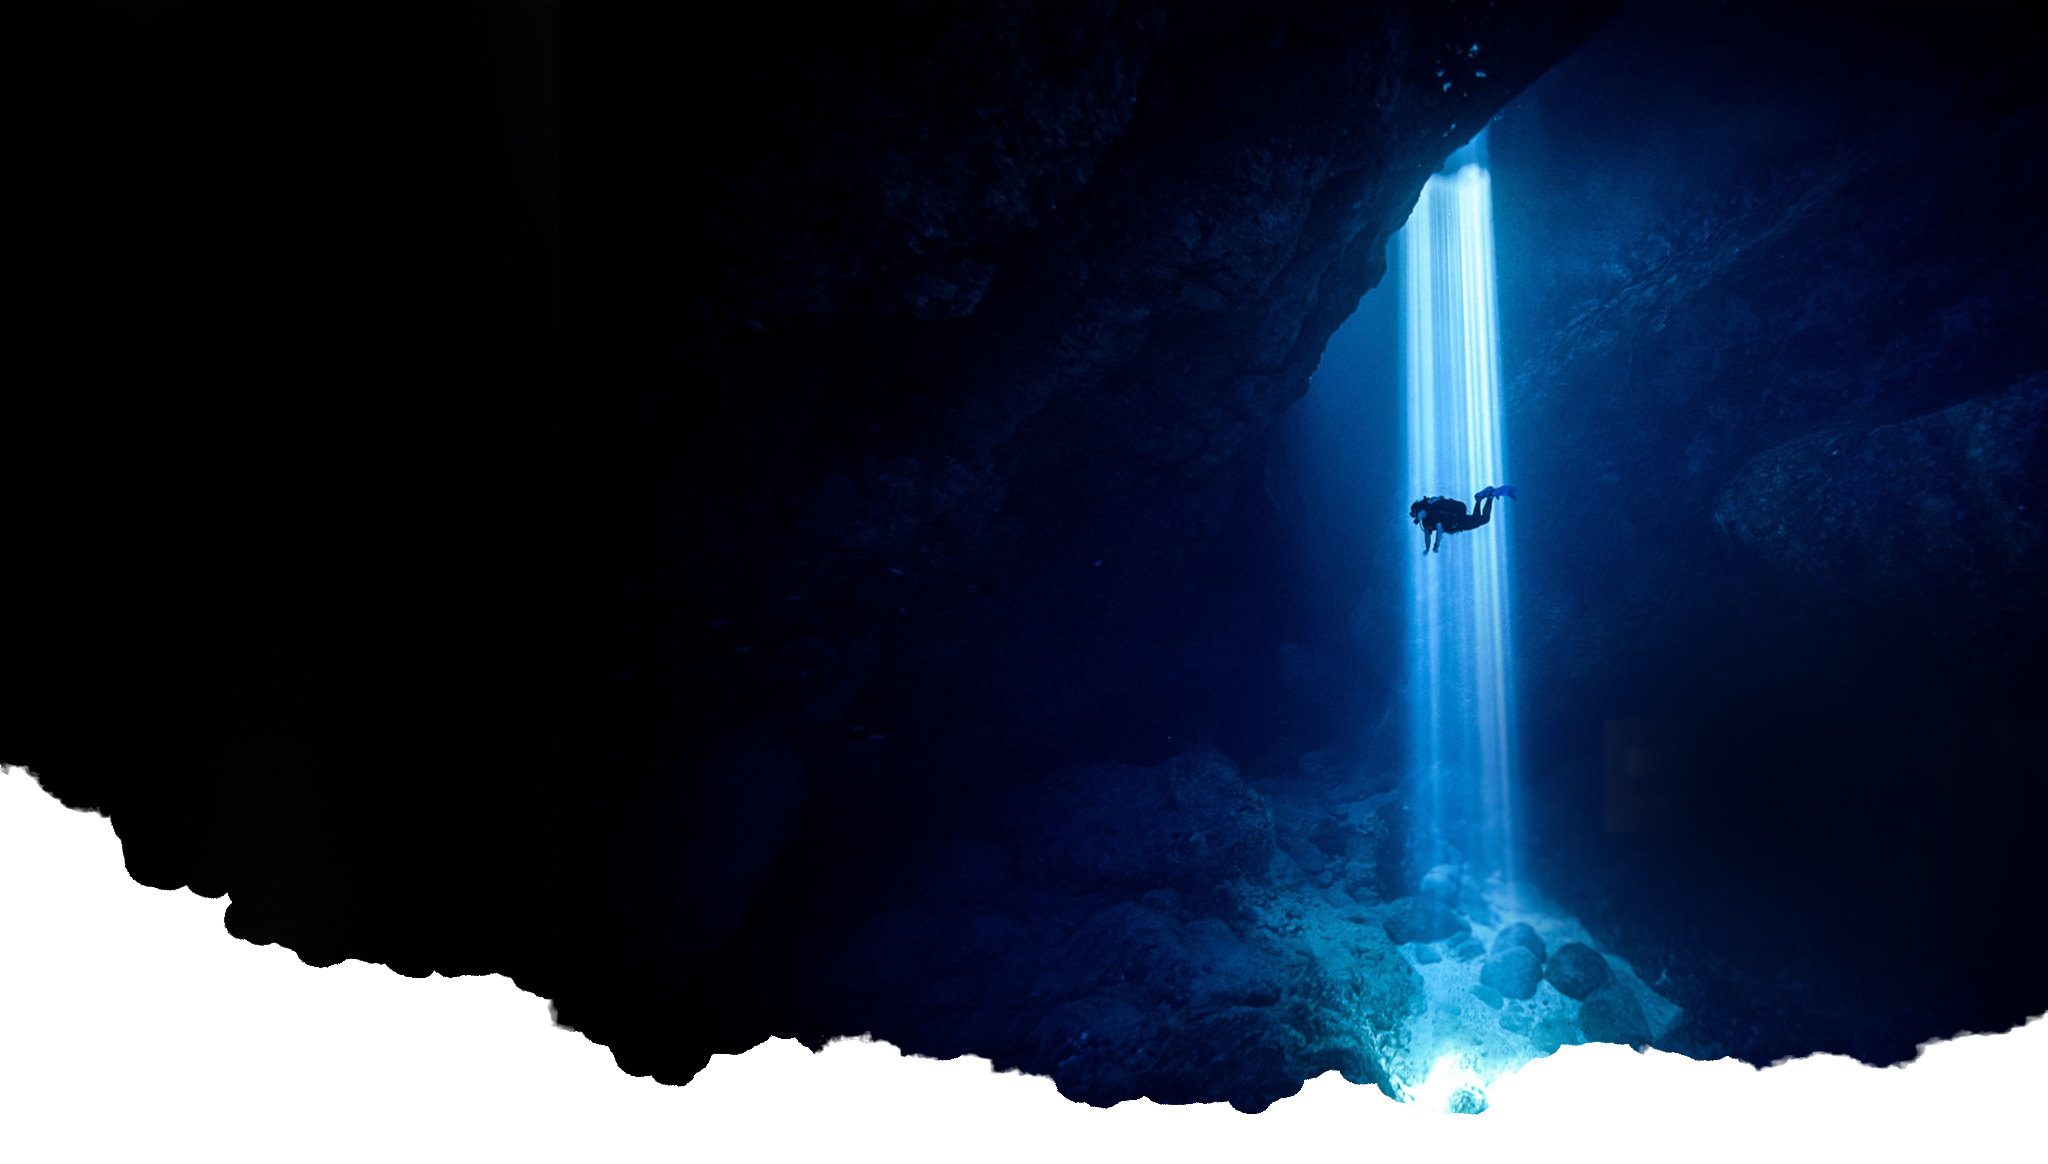
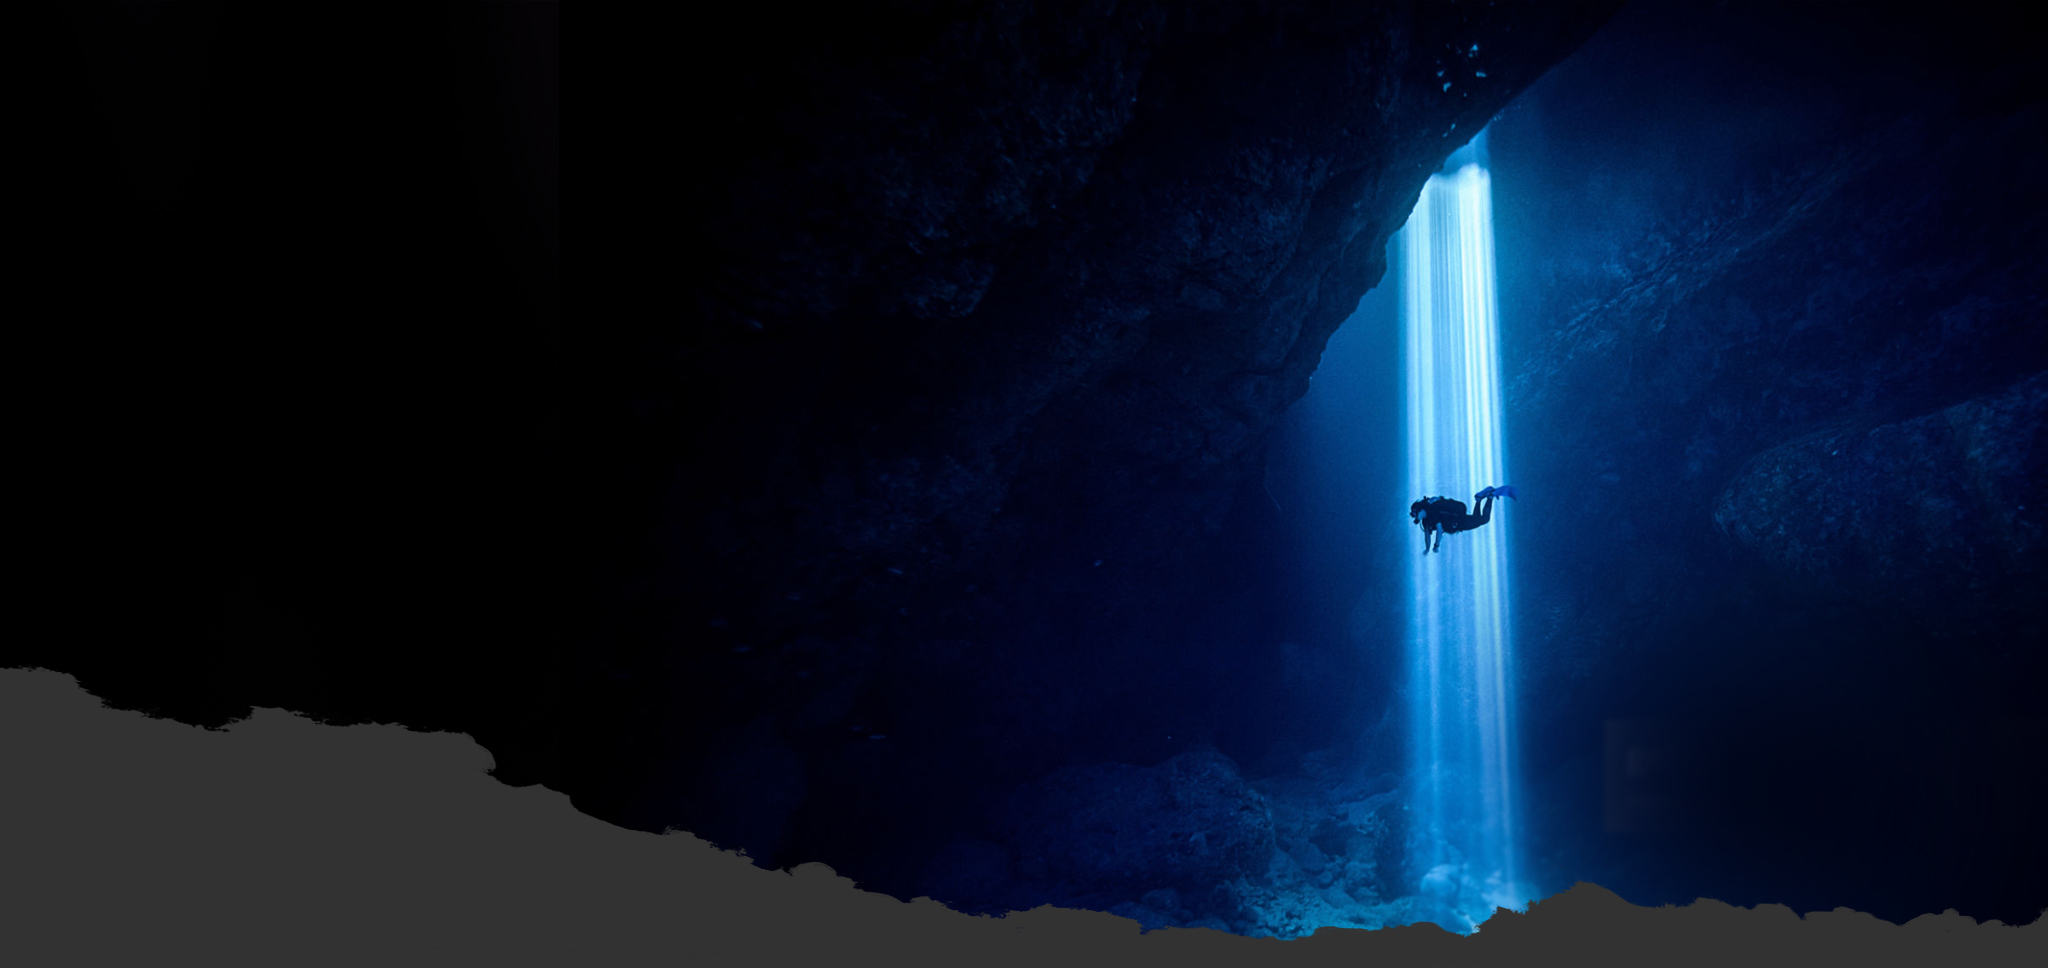
commit

diff --git a/docs/index.html b/docs/index.html
@@ -5,6 +5,7 @@
     <title>Title$</title>
     <!--    Bootstrap CDN    -->
     <link rel="stylesheet" href="https://maxcdn.bootstrapcdn.com/bootstrap/4.0.0/css/bootstrap.min.css" integrity="sha384-Gn5384xqQ1aoWXA+058RXPxPg6fy4IWvTNh0E263XmFcJlSAwiGgFAW/dAiS6JXm" crossorigin="anonymous">
+    <link rel="stylesheet" href="https://maxcdn.bootstrapcdn.com/bootstrap/4.0.0/css/bootstrap.min.css" integrity="sha384-Gn5384xqQ1aoWXA+058RXPxPg6fy4IWvTNh0E263XmFcJlSAwiGgFAW/dAiS6JXm" crossorigin="anonymous">
     <script src="https://code.jquery.com/jquery-3.2.1.slim.min.js" integrity="sha384-KJ3o2DKtIkvYIK3UENzmM7KCkRr/rE9/Qpg6aAZGJwFDMVNA/GpGFF93hXpG5KkN" crossorigin="anonymous"></script>
     <script src="https://cdnjs.cloudflare.com/ajax/libs/popper.js/1.12.9/umd/popper.min.js" integrity="sha384-ApNbgh9B+Y1QKtv3Rn7W3mgPxhU9K/ScQsAP7hUibX39j7fakFPskvXusvfa0b4Q" crossorigin="anonymous"></script>
     <script src="https://maxcdn.bootstrapcdn.com/bootstrap/4.0.0/js/bootstrap.min.js" integrity="sha384-JZR6Spejh4U02d8jOt6vLEHfe/JQGiRRSQQxSfFWpi1MquVdAyjUar5+76PVCmYl" crossorigin="anonymous"></script>
@@ -14,15 +15,46 @@
     <!-- google fonts -->
     <!-- Template Main CSS File -->
     <link href="style.css" rel="stylesheet">
+    <link href="style.js" rel="stylesheet">
 </head>
 <body>
 <!--    Navbar    -->
 
 <!--    image    -->
+
 <div id="carouselExampleIndicators" class="carousel slide" data-ride="carousel">
     <div class="carousel-inner">
-        <img src="images/back-img.jpg" style="width: auto;">
+        <img src="images/swimback-white.jpg" style="width: 1500px;">
         <div class="carousel-caption text-left">
+            <nav class="navbar navbar-expand-lg navbar-dark bg-transparent">
+                <a class="navbar-brand" href="#">Navbar</a>
+                <button class="navbar-toggler" type="button" data-toggle="collapse" data-target="#navbarNavDropdown" aria-controls="navbarNavDropdown" aria-expanded="false" aria-label="Toggle navigation">
+                    <span class="navbar-toggler-icon"></span>
+                </button>
+                <div class="collapse navbar-collapse" id="navbarNavDropdown">
+                    <ul class="navbar-nav">
+                        <li class="nav-item active">
+                            <a class="nav-link" href="#">Home <span class="sr-only">(current)</span></a>
+                        </li>
+                        <li class="nav-item">
+                            <a class="nav-link" href="#">Features</a>
+                        </li>
+                        <li class="nav-item">
+                            <a class="nav-link" href="#">Pricing</a>
+                        </li>
+                        <li class="nav-item dropdown">
+                            <a class="nav-link dropdown-toggle" href="#" id="navbarDropdownMenuLink" data-toggle="dropdown" aria-haspopup="true" aria-expanded="false">
+                                Dropdown link
+                            </a>
+                            <div class="dropdown-menu" aria-labelledby="navbarDropdownMenuLink">
+                                <a class="dropdown-item" href="#">Action</a>
+                                <a class="dropdown-item" href="#">Another action</a>
+                                <a class="dropdown-item" href="#">Something else here</a>
+                            </div>
+                        </li>
+                    </ul>
+                </div>
+            </nav>
         </div>
     </div>
 </div>

diff --git a/docs/style.css b/docs/style.css
@@ -1,0 +1,18 @@
+.navbar a{
+    font-family: 'Comfortaa', sans-serif, cursive;font-size: 19px;
+}
+.nav-link span{
+    font-family: 'Comfortaa', sans-serif, serif;font-size: 19px;color: #ffffff;
+}
+.nav-link i{
+    font-family: 'Comfortaa', sans-serif, serif;font-size: 19px;color: #ffffff;
+}
+.nav-link a{
+    font-family: 'Comfortaa', sans-serif, serif;font-size: 19px;color: #ffffff;
+}
+.navbar {
+    max-height: 20px;
+}
+.dropdown-menu a{
+    font-family: 'Comfortaa', sans-serif, serif;font-size: 14px;color: #ffffff;
+}
